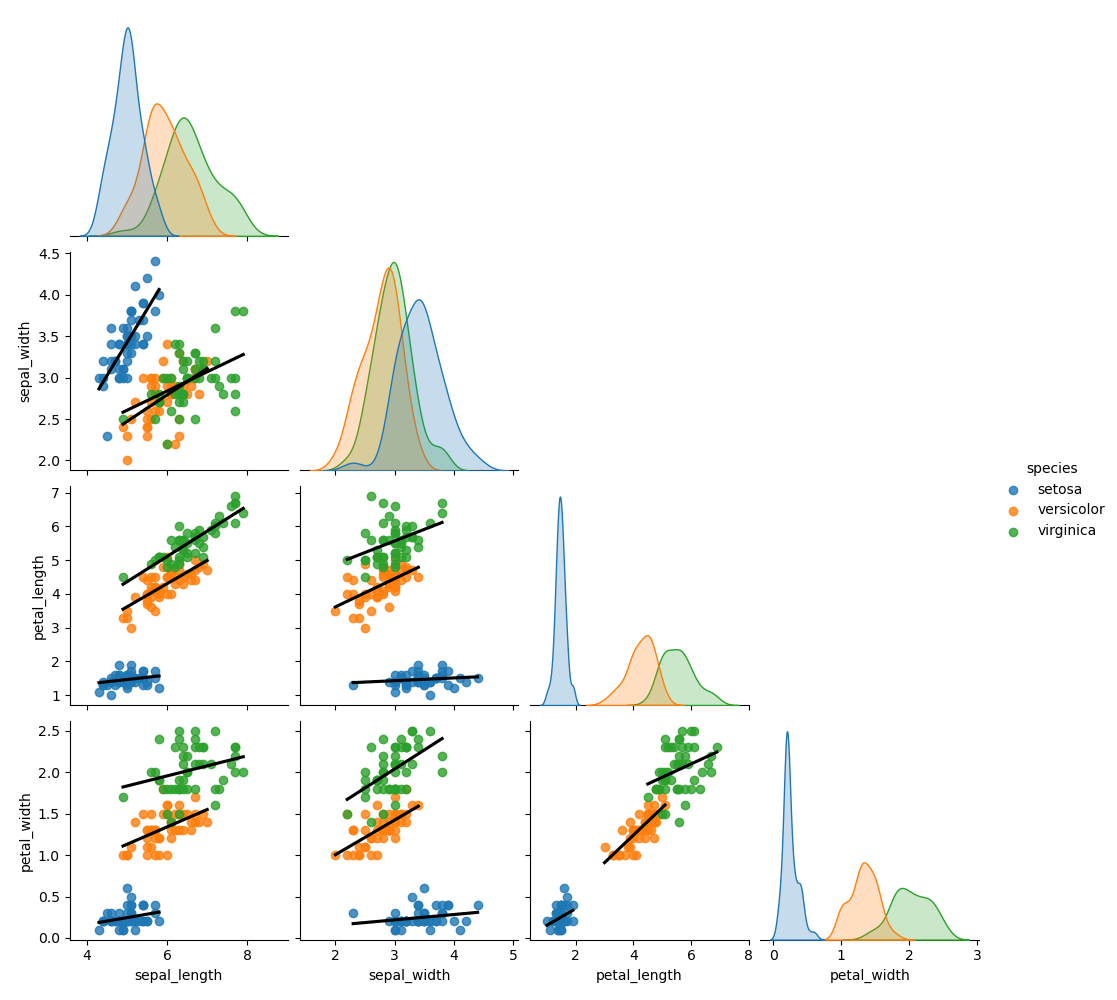
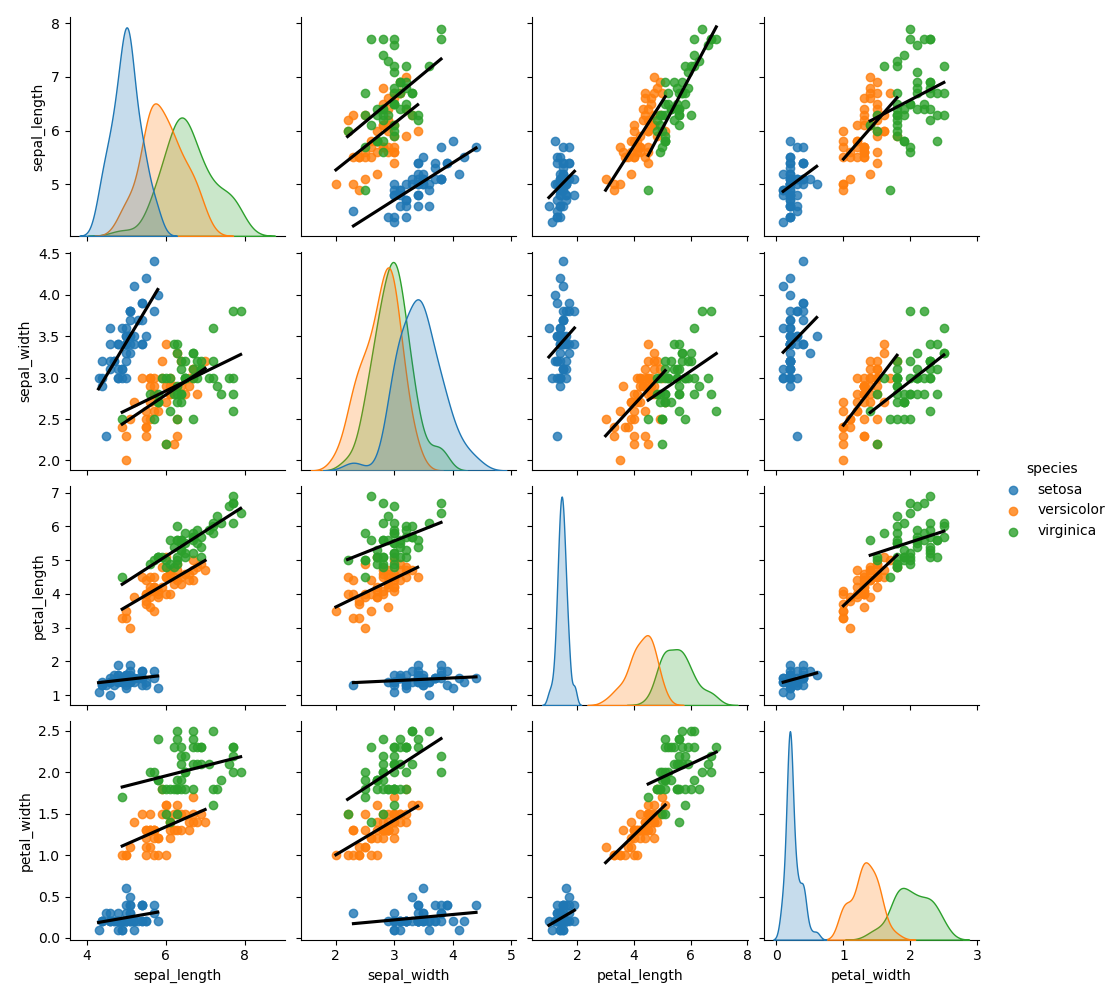
Update Seaborn plots and more README content

diff --git a/bestfit_all.py b/bestfit_all.py
@@ -190,9 +190,10 @@ def bestfit_all(iris):
     plt.savefig(BESTFIT_PLT)
 
     # Now draw a scatter plot for the dataset with Seaborn - it is one line versus all of the code above
+    # Setting kind='reg' adds the liner regression plots 
     # Density plots on the diagonal show the spread of values
-    # Just draw the 6 individual plots (corner=True), do not repeat them above the diagonal
-    sns.pairplot(iris, hue="species", kind='reg', corner=True, plot_kws={'line_kws':{'color':'black'},'ci':None})
+    # Draw all 12 individual plots (corner=False), so we can compare them to the Matplotlib plots
+    sns.pairplot(iris, hue="species", kind='reg', corner=False, plot_kws={'line_kws':{'color':'black'},'ci':None})
     plt.savefig(BESTFIT_SNS)
 
     print("Scatter plots with best fit lines written to", BESTFIT_PLT, "(Pyplot) and", BESTFIT_SNS, "(Seaborn)")

diff --git a/README.md b/README.md
@@ -119,10 +119,10 @@ Clone the GitHub repository using the link in the **Purpose of this Repository**
 Execute the program by typing *"python analysis.py"*. This results in the menu being presented.
 The menu options and their outputs are described in the [Program Outputs](#Program-Outputs) section.
 
-# Analysis
+# Analysis  
 <a name="Analysis"></a>  
 
-## Correlation
+## Correlation  
 <a name="Correlation"></a>
 
 The Pandas *corr()* method [c4] is used to establish a pairwise correlation between columns. NaN, NULL values are excluded.  
@@ -140,7 +140,9 @@ Source [g5]
 The lower the correlation value in absolute terms, the weaker the relationship between the x and y variables. For example, 0.8 or -0.8 implies a strong relationship between the x and y variable; whereas a correlation of 0.2 or -0.2 implies a weak relationship.  
 Note that the Pearson correlation coefficient is symmetric: corr(X,Y) = corr(Y,X) [g5].  
 
-## Best Fit
+## Best Fit  
+<a name="Best-Fit"></a>
+
 A best fit or regression line is intended to represent a set of points such that the sum of the squared distance from each point to the line is minimized. This is called the Ordinary Least Squares (OLS) method.  
     
 The distance (usually the vertical distance) from each point to the line is called the residual, and it may be positive or negative depending on whether the point is above of below the line. The simplest case is linear regression, where the solution is a straight line or first order polynomial:  
@@ -232,7 +234,7 @@ In summary the statistics indicate that we should consider the data for each spe
 ### Option 2 - Histograms  
 <a name="Option-2---Histograms"></a>
 
-Choosing this option causes a set of 12 histograms to be drawn, representing the 4 attributes (petal length, petal width, sepal length, sepal width) for each of the 3 species. Matplotlib's *plt.subplots()* is used to create the figure and axes. The *Axes.hist()* method is used to draw the individual subplots.
+Choosing this option causes a set of 12 histograms to be drawn, representing the 4 attributes (petal length, petal width, sepal length, sepal width) for each of the 3 species. Matplotlib's *plt.subplots()* is used to create the figure and axes. The *Axes.hist()* method is used to draw the individual subplots. The output is saved to *hist_all.png*.
   
 **Figure 6 - *Iris* attribute histograms by species**  
 <img src="hist_all.png" width="900" height="600">  
@@ -244,8 +246,11 @@ Looking at the petal length and petal width columns, the separation of the *seto
 Also as previously observed, the sepal length and sepal width attributes clearly overlap for all 3 species. Those attributes cannot be used to distinguish between species.  
   
  ### Option 3 - Individual Histograms  
-The following histograms each represent a single attribute as a row, with a plot per species.  
-Density plots are included and show the spread for each atribute.  
+The following histograms each represent a single attribute as a row, with a plot per species. Density plots are included and show the spread for each atribute. The output is saved to 4 files:
+- *hist_petal_length.png*  
+- *hist_petal_width.png*  
+- *hist_sepal_length.png*  
+- *hist_sepal_width.png*  
   
 **Figure 7 - *Iris* petal length histograms by species**  
 <img src="hist_petal_length.png" width="750" height="250">  
@@ -263,20 +268,29 @@ Density plots are included and show the spread for each atribute.
 This is just a slightly different way of presenting the histograms already reviewed in [Option 2](#Option-2---Histograms) above. The density plots superimposed on the histograms give a view of the spread of each attribute. As expected, those with the widest spreads as shown in the density plots (e.g. *viginica* sepal length) align with the species attributes with the largest standard deviations (std) as summarized in [Option 1](#Option-1---Statistical-Summary).
 
 ### Option 4 - Scatter Plots  
-The attributes are plotted pairwise in scatter plots, colour-coded by species.  
+The attributes are plotted pairwise in scatter plots, colour-coded by species, and saved to *scatter_plt.png*.
    
 The purpose of a scatter plot is to visualize the relationship between two attributes or variables. One of the variables is plotted on the x-axis; and the other is plotted on the y-axis. For the Iris data set, we will need 6 plots (axes) as the number of pairwise scatter plots for 4 variables will be (4 x 3)/2 = 6 in total.  
   
 Matplotlib's *plt.subplots()* is used to create the figure and axes. The *Axes.scatter()* method is used to draw the individual subplots.  
 
-**Figure 11 - *Iris* attribute pair-wise scatter plots, colour-coded by species**  
+**Figure 11a - *Iris* attribute-pair scatter plots, colour-coded by species (Matplotlib)**  
 <img src="scatter_plt.png" width="750" height="600">  
 
+The same plot was created using Seaborn - one line of code can replace the many required using Matplotlib. Both were used as a learning exercise. The diagonal plots are density plots of the attribute by species. 
+
+**Figure 11b - *Iris* attribute-pair scatter plots, colour-coded by species (Seaborn)**  
+<img src="scatter_sns.png" width="750" height="600">  
+
 #### Observations  
-The scatter plots reinforce the [previous conclusion](#Option-1---Statistical-Summary) that the *setosa* species is linearly separable from *versicolor* and *virginica*; however the latter 2 are not linearly separable, with significant overlap in the scatter plots [g7]. In the case of sepal length and sepal width, there is overlap between *setosa* and the other species; we have [previously noted](#Option-1---Statistical-Summary) overlap in sepal length and sepal width across all 3 species.
+1. The scatter plots reinforce the [previous conclusion](#Option-1---Statistical-Summary) that the *setosa* species is linearly separable from *versicolor* and *virginica*; however the latter 2 are not linearly separable, with significant overlap in the scatter plots [g7]. In the case of sepal length and sepal width, there is overlap between *setosa* and the other species; we have [previously noted](#Option-1---Statistical-Summary) overlap in sepal length and sepal width across all 3 species.
+
+2. The density subplots on the diagonal of the Seaborn-generated plot confirm previous observations, that the *setosa* petal length and petal width are tightly clustered and are smallest in size, that there is overlap between *versicolor* and *virginica* petal length and petal width; and there is overlap across all 3 species for sepal length and sepal width.
 
 ### Option 5 - Correlation & Heatmaps  
-When this option is chosen, the following correlation summary data is written to - *iris_correlation.txt*.  
+<a name="Option-5---Correlation-&-Heatmaps"></a>
+
+When this option is chosen, the following correlation summary data is written to *iris_correlation.txt*.  
     
     Correlation summary for all iris species
                 petal_length  petal_width  sepal_length  sepal_width
@@ -315,8 +329,7 @@ Note that it consists of 4 individual heatmaps (axes) plus one colour bar. Light
 Also note that the correlations are symmetric, as noted in the Correlation section [above](#Correlation) - so for example, *Iris* petal length vs petal width AND *Iris* petal width vs petal length are both 0.962865.
 
 #### Observations
-One interesting observation is that looking at the Iris data set overall is quite misleading.
-For example, the correlation coefficient for petal length vs petal width for *Iris* is 0.962865, which implies a close to linear relatinship. However, the correlation coefficient for petal length vs petal width for each of the 3 species is as follows:  
+One interesting observation is that looking at the Iris data set overall is quite misleading. At a glance, the *Iris* heatmap is much lighter in colour than the individual species heatmaps for 3 of the 4 attributes. For example, the correlation coefficient for petal length vs petal width for *Iris* is 0.962865, which implies a close to linear relationship. However, the correlation coefficient for petal length vs petal width for each of the 3 species is as follows:  
 |species | correlation |
 |--------|-------------|
 |*setosa* | 0.331630 | 
@@ -328,7 +341,7 @@ None of these approach 0.962865. So why is the coefficient for *iris* so much hi
 **Figure 13 - *Iris* petal length vs. petal width**  
 <img src="scatter_petal.png" width="280" height="280">  
 
-In this plot, while each of the individual species looks more like a cluster (less correlated), when they are considered together they appear more linear. If we just looked at *setosa*, for example, it looks more like the cluster with a correlation coefficient of </= 0.4 in [Figure 3b](#Figure_3ab) above - which aligns with the calculated value for *setosa* of 0.331630. However, the overall set of points for *Iris* looks far more linear, i.e. more like the cluster with a correlation coefficient of >/= 0.8, which again aligns with the calculated value for *Iris* of 0.962865. This will be clearer when we look at the best fit lines in the next section.  
+In this plot, while each of the individual species looks more like a cluster (less correlated), when they are considered together they appear more linear. If we just looked at *setosa*, for example, it looks more like the cluster with a correlation coefficient of </= 0.4 in [Figure 3b](#Figure_3ab) above - which aligns with the calculated value for *setosa* of 0.331630. However, the overall set of points for *Iris* looks far more linear, i.e. more like the cluster with a correlation coefficient of >/= 0.8 in [Figure 3b](#Figure_3ab), which again aligns with the calculated value for *Iris* of 0.962865. This will become clearer when we look at the best fit lines in the next section.  
   
 One other observation is that some correlation coefficients are negative for *Iris* (e.g. sepal width vs. petal width is -0.366126), implying that the sepal width decreases as the petal width increases - whereas the same correlation coefficients are positive for the individual species:  
 |species | correlation |
@@ -337,22 +350,39 @@ One other observation is that some correlation coefficients are negative for *Ir
 |*versicolor* | 0.663999 |
 |*virginica* | 0.537728 |
 
-The reson for this becomes clearer if we look at the scatter plot for petal with vs sepal width, each of the 3 invididual species shows a positive correlation, i.e. the sepal width increases as the petal width increases.
+The reason for this becomes clearer if we look at the scatter plot for petal with vs sepal width, each of the 3 invididual species shows a positive correlation, i.e. the sepal width increases as the petal width increases.
   
 **Figure 14 - *Iris* petal width vs. sepal width**  
 <img src="scatter_sepal.png" width="280" height="280">  
   
- However, looking at the *Iris* data set as a whole, the sepal width appears to decrease as the petal width increases (i.e. a negative correlation). This aghain will be clearer as we look at the best fit lines in the next section.
-
+ However, looking at the *Iris* data set as a whole, the sepal width appears to decrease as the petal width increases (i.e. a negative correlation). This again will become clearer as we look at the best fit lines in the next section.
 
 ### Option 6 - Best Fit  
-text here  
+When this option is chosen, the scatter plots are drawn with superimposed best fit lines, as calculated by *numpy.polyfit()*. The output is saved to *bestfit_plt.txt*.
+As discussed in the [Best Fit](#Best-Fit) section above, a best fit or regression line is intended to represent a set of points such that the sum of the squared distance from each point to the line is minimized. The simplest case, which we've applied here, is linear regression, where the solution is a straight line (first order polynomial).  
+
+**Figure 15 - *Iris* petal width vs. sepal width**  
 ![Best Fit - NumPy, Pyplot](images/bestfit_plt_1.png)  
-  
+
+The best fit lines have been drawn per species, because we have concluded from the correlation results that it can be misleading to look atthe *Iris* data set as a whole. This is further demonstrated in 2 of the plots, where a best fit line has been drawn for the *Iris* data set as well as for the individual species.
 
 #### Observations
-1. The best fit line for all species has a positive slope in all cases, which implies that as one attribute increases, the other is also likely to increase.
+A number of observations can be made:
+1. The top left plot, i.e. petal width vs. petal length, demonstrates the conclusion that we had reached above, i.e. that the *Iris* data set as a whole looks quite linear as represented by the spread of points around the purple line, while the data for the individual species looks far less correlated, as represented by the spread of points around the individual black lines. This aligns with what the correlation coefficients were indicating - very close to 1 for *Iris* overall, much lowe for the individual species.  
+  
+    **Petal Length vs. Petal Width**  
+    | species | correlation |  
+    |--------|-------------|  
+    | *Iris  | 0.962865 |  
+    |*setosa* | 0.331630 |   
+    |*versicolor* | 0.786668 |  
+    |*virginica* | 0.322108 |  
+  
+2. We can also observe that the best fit line for each species in every scatter plot has a positive slope, which corresponds to a positive correlation coefficient - as one attribute increases, the other one also tends to increase. This lines up with the table and heatmap in the [Correlation & Heatmaps](#Option-5---Correlation-&-Heatmaps) section above.
+However, in some cases the *Iris* data set best fit line has a negative slope for example the middle plot in the bottom row, sepal width vs sepal length. This is because the best fit line is fitting sets of data that are not correlated with each other. In this case, the overall *Iris* data set correlation coefficient is completely misleading, and the coefficients for the individual species should be used.  
 
+
+# Conclusions
 
 
 
